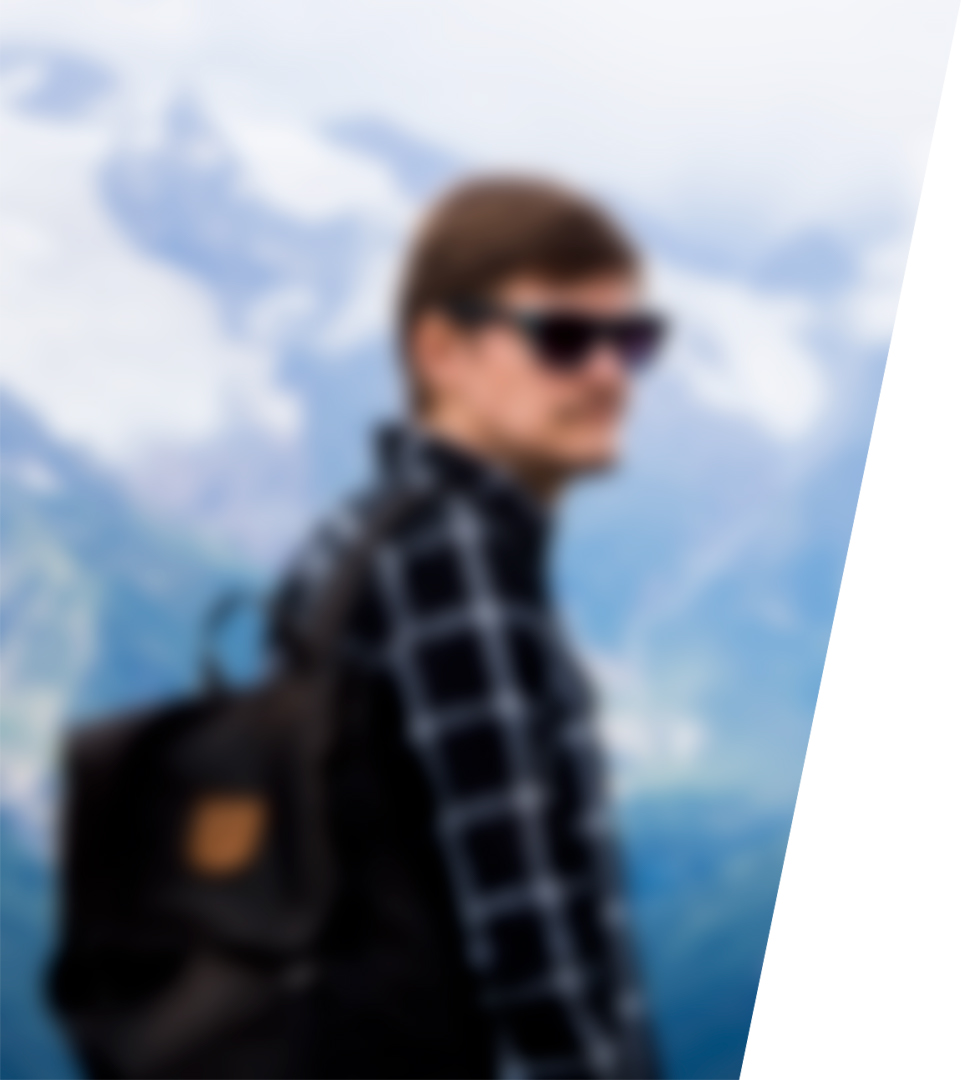
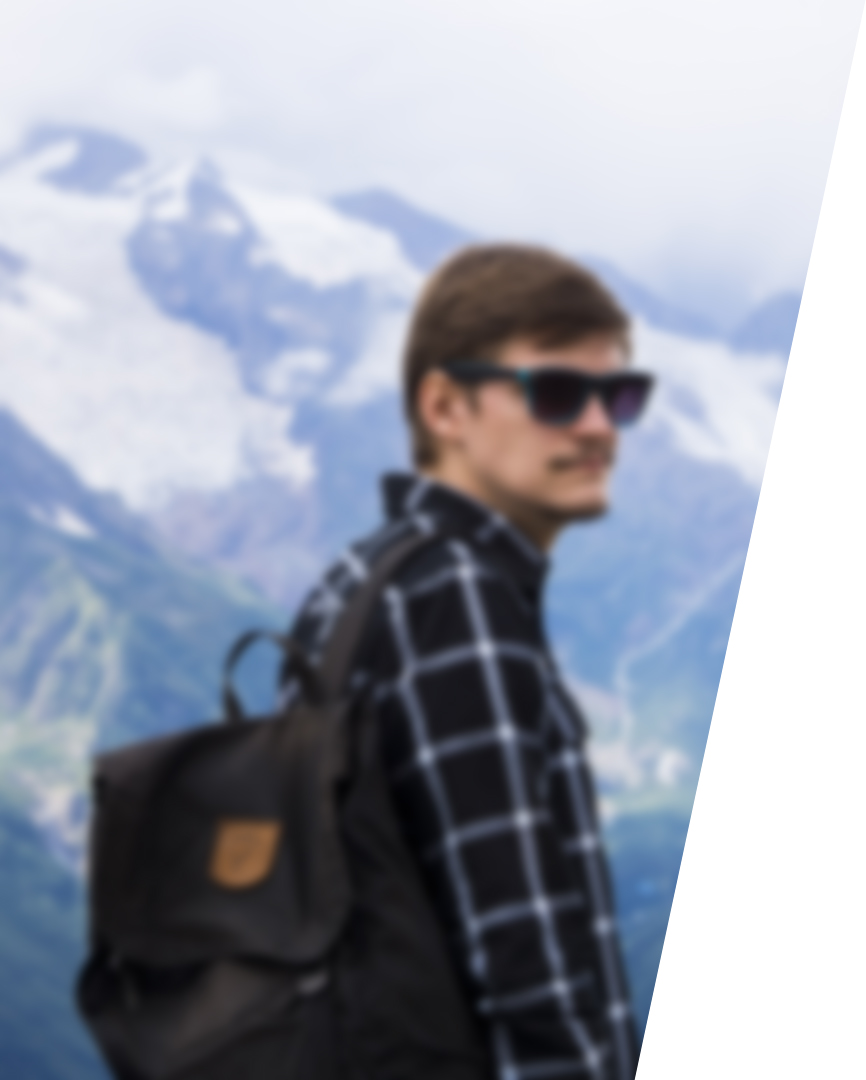
second test

diff --git a/css/style.min.css b/css/style.min.css
@@ -1,1 +1,1 @@
-*{padding:0;margin:0}body{font-family:"OpenSans","Tahoma",sans-serif;font-weight:400;color:#212121;background-color:#fff}img{max-width:100%;height:auto}a{text-decoration:none}button{background:0 0;border:0;color:inherit;font:inherit;line-height:normal;overflow:visible;padding:0;outline:0}ul{list-style:none}input{outline:0;font-family:inherit}input::-webkit-contacts-auto-fill-button{visibility:hidden;display:none;pointer-events:none;position:absolute;right:0}@font-face{font-family:"OpenSans";src:url(../fonts/opensans.woff) format("woff"),url(../fonts/opensans.woff2) format("woff2");font-weight:400;font-style:normal}@font-face{font-family:"OpenSans";src:url(../fonts/opensansbold.woff) format("woff"),url(../fonts/opensansbold.woff2) format("woff2");font-weight:700;font-style:normal}@font-face{font-family:"Impact";src:url(../fonts/ImpactRegular.woff) format("woff");font-weight:400;font-style:normal}.container{margin:0 auto;outline:1px solid #ff0}.main-nav__items{display:-ms-flexbox;display:flex;-ms-flex-pack:distribute;justify-content:space-around}.main-nav{width:300px;margin:3% auto 0}.main-nav__toggle{display:none}.main-nav__link:hover{animation-name:wobble-horizontal;animation-duration:1s;animation-timing-function:ease-in-out;animation-iteration-count:1}@keyframes wobble-horizontal{16.65%{transform:translateX(8px)}33.3%{transform:translateX(-6px)}49.95%{transform:translateX(4px)}66.6%{transform:translateX(-2px)}83.25%{transform:translateX(1px)}to{transform:translateX(0)}}.about{padding:50px 0;text-align:center;background:#c0392b;background:linear-gradient(to left,#8e44ad,#c0392b)}.about__text p:first-child{padding-bottom:50px;font-size:24px;font-weight:700;color:#fff}.about__text p:last-child{width:500px;padding-bottom:50px;margin:0 auto;line-height:24px;font-size:18px;color:#fff}.btn{display:block;width:200px;margin:0 auto;font-size:18px;font-weight:700;line-height:48px;text-align:center;text-transform:uppercase;border:2px solid #fff;color:#fff}.btn:hover{transition:all .3s ease;color:purple}.btn:not(:hover){transition:all .5s ease}.btn:active{color:coral}.main-page{display:-ms-flexbox;display:flex;width:100%;height:100vh}.page-left{width:50%;background-image:url(../img/up-me.jpg),url(../img/down-me.jpg);background-position:center,center;background-size:auto,cover;background-repeat:no-repeat,no-repeat}.page-right{width:50%;text-align:center;margin:0 auto}.page-right__header{margin-top:4%}.page-right__header span{position:relative;padding:5px 40px;font-family:"Impact","Tahoma",sans-serif;font-size:48px;border:5px solid #000;box-shadow:10px 10px 8px -6px #555;text-transform:uppercase;letter-spacing:.25em;word-spacing:.5em}.page-right__header span::before{position:absolute;left:0;top:38px;content:"";border-bottom:35px solid #000;border-right:35px solid transparent}.page-right__header span::after{position:absolute;left:-5px;top:41px;content:"";border-bottom:40px solid #fff;border-right:40px solid transparent}.page-right__header p{margin-top:3%;font-size:18px;font-weight:700}.page-right__header div{margin-top:3%;font-size:16px}.page-right__header div::before{content:"KS";margin-right:5px;padding:3px 5px;font-family:"Impact","Tahoma",sans-serif;font-size:20px;border:3px solid #000;letter-spacing:.1em}.page-right__caption{margin-top:4.5%}.page-right__list{margin:3% 8% 0;text-align:left;position:relative}.page-right__list::before{content:"";position:absolute;left:-40px;top:-2px;width:20px;height:23px;background-image:url(../img/arrow.svg)}.page-right__list:hover::before{transform:rotate(360deg);transition:.7s}.page-right__list:not(:hover)::before{transition:.7s}.page-right__list ul{margin-left:6%}.page-right__list li{position:relative;margin-top:4%}.page-right__gb::before,.page-right__mai::before{content:"";position:absolute;left:-40px;top:5px;width:30px;height:29px;background-image:url(../img/mai.png)}.page-right__gb::before{top:-5px;height:33px;background-image:url(../img/gb.png)}.page-right__academy::before,.page-right__mda::before{content:"";position:absolute;left:-40px;top:-8px;width:30px;height:38px;background-image:url(../img/academy.png)}.page-right__mda::before{top:3px;height:12px;background-image:url(../img/mda.png)}.page-right__items{display:-ms-flexbox;display:flex;-ms-flex-pack:distribute;justify-content:space-around;margin-top:4%}.page-right__item{width:300px}@media (min-width:320px) and (max-width:767px){.main-nav__items{display:-ms-flexbox;display:flex}.main-nav__toggle{position:absolute;top:7px;right:0;z-index:2;display:block;width:70px;height:50px;font-size:0;background-color:transparent;cursor:pointer;border:0}.main-nav--closed .main-nav__toggle::before{content:"";position:absolute;top:11px;left:19px;width:20px;height:2px;background-color:#000;box-shadow:0 5px 0 0 #000,0 10px 0 0 #000}.main-nav--opened .main-nav__toggle{top:7px;right:0}.main-nav--opened .main-nav__toggle::after,.main-nav--opened .main-nav__toggle::before{content:"";position:absolute;top:16px;left:19px;width:20px;height:2px;background-color:#000}.main-nav--opened .main-nav__toggle::before{transform:rotate(45deg);box-shadow:none}.main-nav--opened .main-nav__toggle::after{transform:rotate(-45deg)}.main-nav--closed .main-nav__items{display:none}.main-nav--opened .main-nav__items{position:absolute;top:50px;right:0;left:0;background-color:transparent;transition:all .4s ease}.main-nav--nojs .main-nav__toggle{display:none}.main-page{-ms-flex-direction:column;flex-direction:column;width:100%;height:100%}.page-left{width:100%;height:300px;background-image:url(../img/up-me.jpg);background-position:center;background-size:cover;background-repeat:no-repeat}.page-right{width:100%}.page-right__header{margin-top:6%}.page-right__header span{padding:5px 20px;font-size:20px;box-shadow:10px 7px 7px -6px #555}.page-right__header span::before{position:absolute;left:0;top:19px;content:"";border-bottom:20px solid #000;border-right:20px solid transparent}.page-right__header span::after{position:absolute;left:-7px;top:21px;content:"";border-bottom:25px solid #fff;border-right:25px solid transparent}.page-right__header p{font-weight:700}.page-right__header div,.page-right__header p{margin-top:10%;font-size:18px}.page-right__header div::before{font-size:18px}.page-right__caption{margin-top:15%}.page-right__list{margin:10% 5% 0 15%;text-align:left;position:relative}.page-right__list ul{margin-left:10%}.page-right__list li{font-size:14px;margin-top:8%}.page-right__items{-ms-flex-direction:column;flex-direction:column;margin-top:6%}.page-right__item{width:100%;margin-bottom:5%}}@media (min-width:320px) and (max-width:700px){.about{display:none}}@media (min-width:768px) and (max-width:1100px){.main-nav{margin:6% auto 0}.page-left{background-image:url(../img/up-me.jpg);background-position:center;background-size:cover;background-repeat:no-repeat}.page-right__header{margin-top:6%}.page-right__header span{padding:5px 40px;font-size:24px;letter-spacing:.25em;word-spacing:.5em;box-shadow:10px 7px 7px -6px #555}.page-right__header span::after,.page-right__header span::before{position:absolute;left:0;top:25px;content:"";border-bottom:20px solid #000;border-right:20px solid transparent}.page-right__header span::after{left:-7px;border-bottom:30px solid #fff;border-right:30px solid transparent}.page-right__header p{font-weight:700}.page-right__header div,.page-right__header p{margin-top:10%;font-size:18px}.page-right__header div::before{font-size:18px}.page-right__caption{margin-top:15%}.page-right__list{margin:10% 5% 0 15%;text-align:left;position:relative}.page-right__list ul{margin-left:10%}.page-right__list li{font-size:14px;margin-top:8%}}
+*{padding:0;margin:0}body{font-family:"OpenSans","Tahoma",sans-serif;font-weight:400;color:#212121;background-color:#fff}img{max-width:100%;height:auto}a{text-decoration:none}button{background:0 0;border:0;color:inherit;font:inherit;line-height:normal;overflow:visible;padding:0;outline:0}ul{list-style:none}input{outline:0;font-family:inherit}input::-webkit-contacts-auto-fill-button{visibility:hidden;display:none;pointer-events:none;position:absolute;right:0}@font-face{font-family:"OpenSans";src:url(../fonts/opensans.woff) format("woff"),url(../fonts/opensans.woff2) format("woff2");font-weight:400;font-style:normal}@font-face{font-family:"OpenSans";src:url(../fonts/opensansbold.woff) format("woff"),url(../fonts/opensansbold.woff2) format("woff2");font-weight:700;font-style:normal}@font-face{font-family:"Impact";src:url(../fonts/ImpactRegular.woff) format("woff");font-weight:400;font-style:normal}.container{margin:0 auto;outline:1px solid #ff0}.main-nav__items{display:-ms-flexbox;display:flex;-ms-flex-pack:distribute;justify-content:space-around}.main-nav{width:300px;margin:3% auto 0}.main-nav__toggle{display:none}.main-nav__link:hover{animation-name:wobble-horizontal;animation-duration:1s;animation-timing-function:ease-in-out;animation-iteration-count:1}@keyframes wobble-horizontal{16.65%{transform:translateX(8px)}33.3%{transform:translateX(-6px)}49.95%{transform:translateX(4px)}66.6%{transform:translateX(-2px)}83.25%{transform:translateX(1px)}to{transform:translateX(0)}}.about{padding:50px 0;text-align:center;background:#c0392b;background:linear-gradient(to left,#8e44ad,#c0392b)}.about__text p:first-child{padding-bottom:50px;font-size:24px;font-weight:700;color:#fff}.about__text p:last-child{width:500px;padding-bottom:50px;margin:0 auto;line-height:24px;font-size:18px;color:#fff}.btn{display:block;width:200px;margin:0 auto;font-size:18px;font-weight:700;line-height:48px;text-align:center;text-transform:uppercase;border:2px solid #fff;color:#fff}.btn:hover{transition:all .3s ease;color:purple}.btn:not(:hover){transition:all .5s ease}.btn:active{color:coral}.main-page{display:-ms-flexbox;display:flex;width:100%;min-height:100vh;position:relative}.page-left{width:50%;background-image:url(../img/up-me.jpg),url(../img/down-me.jpg);background-position:center,center;background-size:auto,cover;background-repeat:no-repeat,no-repeat}.page-right{width:50%;text-align:center;margin:0 auto;overflow:hidden}.page-right__caption,.page-right__header{margin-top:30px}.page-right__header span{position:relative;padding:5px 40px;font-family:"Impact","Tahoma",sans-serif;font-size:48px;border:5px solid #000;box-shadow:10px 10px 8px -6px #555;text-transform:uppercase;letter-spacing:.25em;word-spacing:.5em}.page-right__header span::before{position:absolute;left:0;top:38px;content:"";border-bottom:35px solid #000;border-right:35px solid transparent}.page-right__header span::after{position:absolute;left:-5px;top:41px;content:"";border-bottom:40px solid #fff;border-right:40px solid transparent}.page-right__header p{margin-top:20px;font-size:18px;font-weight:700}.page-right__header div{margin-top:20px;font-size:16px}.page-right__header div::before{content:"KS";margin-right:5px;padding:3px 5px;font-family:"Impact","Tahoma",sans-serif;font-size:20px;border:3px solid #000;letter-spacing:.1em}.page-right__list{margin:20px 8% 0;text-align:left;position:relative}.page-right__list::before{content:"";position:absolute;left:-40px;top:-2px;width:20px;height:23px;background-image:url(../img/arrow.svg);background-repeat:no-repeat}.page-right__list:hover::before{transform:rotate(360deg);transition:.7s}.page-right__list:not(:hover)::before{transition:.7s}.page-right__list ul{margin-left:40px}.page-right__list li{position:relative;margin-top:30px}.page-right__mai{line-height:22px}.page-right__academy::before,.page-right__gb::before,.page-right__mai::before,.page-right__mda::before{content:"";position:absolute;left:-40px;top:5px;width:30px;height:29px;background-image:url(../img/mai.png);background-repeat:no-repeat}.page-right__academy::before,.page-right__gb::before,.page-right__mda::before{top:-5px;height:33px;background-image:url(../img/gb.png)}.page-right__academy::before,.page-right__mda::before{top:-8px;height:38px;background-image:url(../img/academy.png)}.page-right__mda::before{top:3px;height:12px;background-image:url(../img/mda.png)}.page-right__items{display:-ms-flexbox;display:flex;-ms-flex-pack:distribute;justify-content:space-around;margin-top:20px}.page-right__item{width:300px}@media (min-width:320px) and (max-width:767px){.main-nav__items{display:-ms-flexbox;display:flex}.main-nav__toggle{position:absolute;top:7px;right:0;z-index:2;display:block;width:70px;height:50px;font-size:0;background-color:transparent;cursor:pointer;border:0}.main-nav--closed .main-nav__toggle::before{content:"";position:absolute;top:11px;left:19px;width:20px;height:2px;background-color:#000;box-shadow:0 5px 0 0 #000,0 10px 0 0 #000}.main-nav--opened .main-nav__toggle{top:7px;right:0}.main-nav--opened .main-nav__toggle::after,.main-nav--opened .main-nav__toggle::before{content:"";position:absolute;top:16px;left:19px;width:20px;height:2px;background-color:#000}.main-nav--opened .main-nav__toggle::before{transform:rotate(45deg);box-shadow:none}.main-nav--opened .main-nav__toggle::after{transform:rotate(-45deg)}.main-nav--closed .main-nav__items{display:none}.main-nav--opened .main-nav__items{position:absolute;top:50px;right:0;left:0;background-color:transparent;transition:all .4s ease}.main-nav--nojs .main-nav__toggle{display:none}.main-page{-ms-flex-direction:column;flex-direction:column;width:100%;height:100%}.page-left{width:100%;height:300px;background-image:url(../img/up-me.jpg);background-position:center;background-size:cover;background-repeat:no-repeat}.page-right{width:100%}.page-right__header{margin-top:6%}.page-right__header span{padding:5px 20px;font-size:20px;box-shadow:10px 7px 7px -6px #555}.page-right__header span::before{position:absolute;left:0;top:19px;content:"";border-bottom:20px solid #000;border-right:20px solid transparent}.page-right__header span::after{position:absolute;left:-7px;top:21px;content:"";border-bottom:25px solid #fff;border-right:25px solid transparent}.page-right__header p{font-weight:700}.page-right__header div,.page-right__header p{margin-top:10%;font-size:18px}.page-right__header div::before{font-size:18px}.page-right__caption{margin-top:15%}.page-right__list{margin:10% 5% 0 15%;text-align:left;position:relative}.page-right__list ul{margin-left:10%}.page-right__list li{font-size:14px;margin-top:8%}.page-right__items{-ms-flex-direction:column;flex-direction:column;margin-top:6%}.page-right__item{width:100%;margin-bottom:5%}}@media (min-width:320px) and (max-width:700px){.about{display:none}}@media (min-width:768px) and (max-width:1100px){.main-nav{margin:6% auto 0}.page-left{background-image:url(../img/up-me.jpg);background-position:center;background-size:cover;background-repeat:no-repeat}.page-right__header{margin-top:6%}.page-right__header span{padding:5px 40px;font-size:24px;letter-spacing:.25em;word-spacing:.5em;box-shadow:10px 7px 7px -6px #555}.page-right__header span::before{position:absolute;left:0;top:24px;content:"";border-bottom:20px solid #000;border-right:20px solid transparent}.page-right__header span::after{position:absolute;left:-7px;top:25px;content:"";border-bottom:30px solid #fff;border-right:30px solid transparent}.page-right__header p{margin-top:10%;font-size:18px;font-weight:700}.page-right__header div{margin-top:5%;font-size:18px}.page-right__header div::before{font-size:18px}.page-right__caption{margin-top:10%}.page-right__list{margin:5% 5% 0 15%;text-align:left;position:relative}.page-right__list ul{margin-left:10%}.page-right__list li{font-size:14px;margin-top:8%}}

diff --git a/css/style.css b/css/style.css
@@ -143,7 +143,8 @@ input::-webkit-contacts-auto-fill-button {
   display: -ms-flexbox;
   display: flex;
   width: 100%;
-  height: 100vh; }
+  min-height: 100vh;
+  position: relative; }
 
 .page-left {
   width: 50%;
@@ -155,10 +156,11 @@ input::-webkit-contacts-auto-fill-button {
 .page-right {
   width: 50%;
   text-align: center;
-  margin: 0 auto; }
+  margin: 0 auto;
+  overflow: hidden; }
 
 .page-right__header {
-  margin-top: 4%; }
+  margin-top: 30px; }
 
 .page-right__header span {
   position: relative;
@@ -188,12 +190,12 @@ input::-webkit-contacts-auto-fill-button {
   border-right: 40px solid transparent; }
 
 .page-right__header p {
-  margin-top: 3%;
+  margin-top: 20px;
   font-size: 18px;
   font-weight: bold; }
 
 .page-right__header div {
-  margin-top: 3%;
+  margin-top: 20px;
   font-size: 16px; }
 
 .page-right__header div::before {
@@ -206,10 +208,10 @@ input::-webkit-contacts-auto-fill-button {
   letter-spacing: 0.1em; }
 
 .page-right__caption {
-  margin-top: 4.5%; }
+  margin-top: 30px; }
 
 .page-right__list {
-  margin: 3% 8% 0;
+  margin: 20px 8% 0;
   text-align: left;
   position: relative; }
 
@@ -220,7 +222,8 @@ input::-webkit-contacts-auto-fill-button {
   top: -2px;
   width: 20px;
   height: 23px;
-  background-image: url(../img/arrow.svg); }
+  background-image: url(../img/arrow.svg);
+  background-repeat: no-repeat; }
 
 .page-right__list:hover::before {
   transform: rotate(360deg);
@@ -230,11 +233,14 @@ input::-webkit-contacts-auto-fill-button {
   transition: 0.7s; }
 
 .page-right__list ul {
-  margin-left: 6%; }
+  margin-left: 40px; }
 
 .page-right__list li {
   position: relative;
-  margin-top: 4%; }
+  margin-top: 30px; }
+
+.page-right__mai {
+  line-height: 22px; }
 
 .page-right__mai::before {
   content: "";
@@ -243,7 +249,8 @@ input::-webkit-contacts-auto-fill-button {
   top: 5px;
   width: 30px;
   height: 29px;
-  background-image: url(../img/mai.png); }
+  background-image: url(../img/mai.png);
+  background-repeat: no-repeat; }
 
 .page-right__gb::before {
   content: "";
@@ -252,7 +259,8 @@ input::-webkit-contacts-auto-fill-button {
   top: -5px;
   width: 30px;
   height: 33px;
-  background-image: url(../img/gb.png); }
+  background-image: url(../img/gb.png);
+  background-repeat: no-repeat; }
 
 .page-right__academy::before {
   content: "";
@@ -261,7 +269,8 @@ input::-webkit-contacts-auto-fill-button {
   top: -8px;
   width: 30px;
   height: 38px;
-  background-image: url(../img/academy.png); }
+  background-image: url(../img/academy.png);
+  background-repeat: no-repeat; }
 
 .page-right__mda::before {
   content: "";
@@ -270,14 +279,15 @@ input::-webkit-contacts-auto-fill-button {
   top: 3px;
   width: 30px;
   height: 12px;
-  background-image: url(../img/mda.png); }
+  background-image: url(../img/mda.png);
+  background-repeat: no-repeat; }
 
 .page-right__items {
   display: -ms-flexbox;
   display: flex;
   -ms-flex-pack: distribute;
       justify-content: space-around;
-  margin-top: 4%; }
+  margin-top: 20px; }
 
 .page-right__item {
   width: 300px; }
@@ -452,7 +462,7 @@ input::-webkit-contacts-auto-fill-button {
   .page-right__header span::before {
     position: absolute;
     left: 0;
-    top: 25px;
+    top: 24px;
     content: "";
     border-bottom: 20px solid #000000;
     border-right: 20px solid transparent; }
@@ -471,17 +481,17 @@ input::-webkit-contacts-auto-fill-button {
     font-weight: bold; }
 
   .page-right__header div {
-    margin-top: 10%;
+    margin-top: 5%;
     font-size: 18px; }
 
   .page-right__header div::before {
     font-size: 18px; }
 
   .page-right__caption {
-    margin-top: 15%; }
+    margin-top: 10%; }
 
   .page-right__list {
-    margin: 10% 5% 0 15%;
+    margin: 5% 5% 0 15%;
     text-align: left;
     position: relative; }
 
